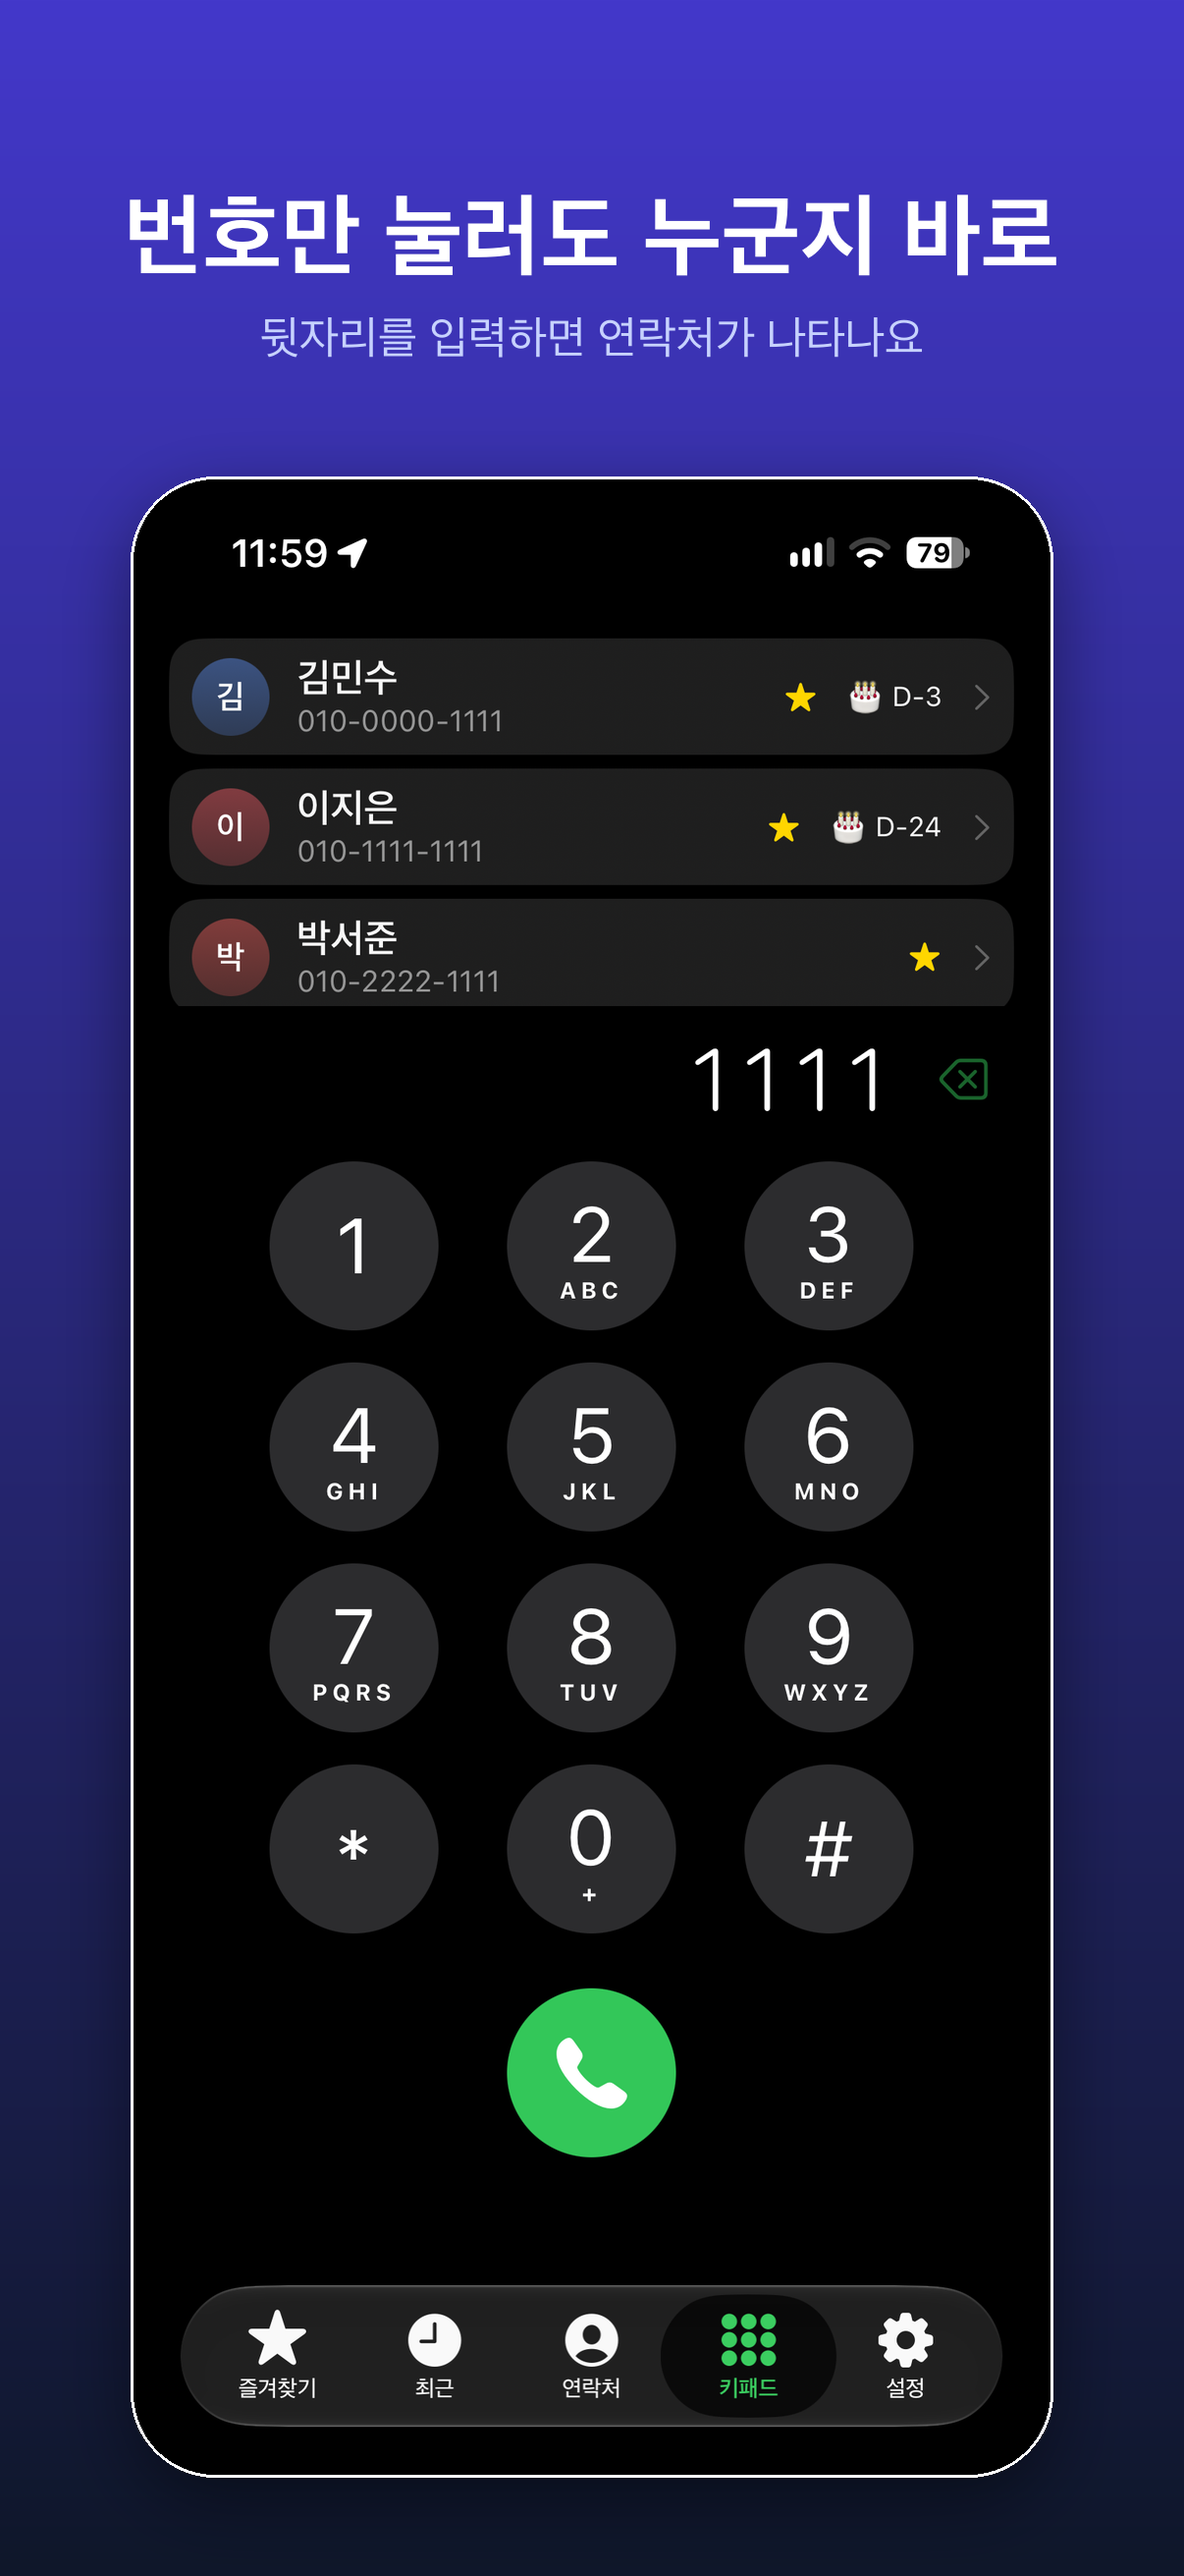
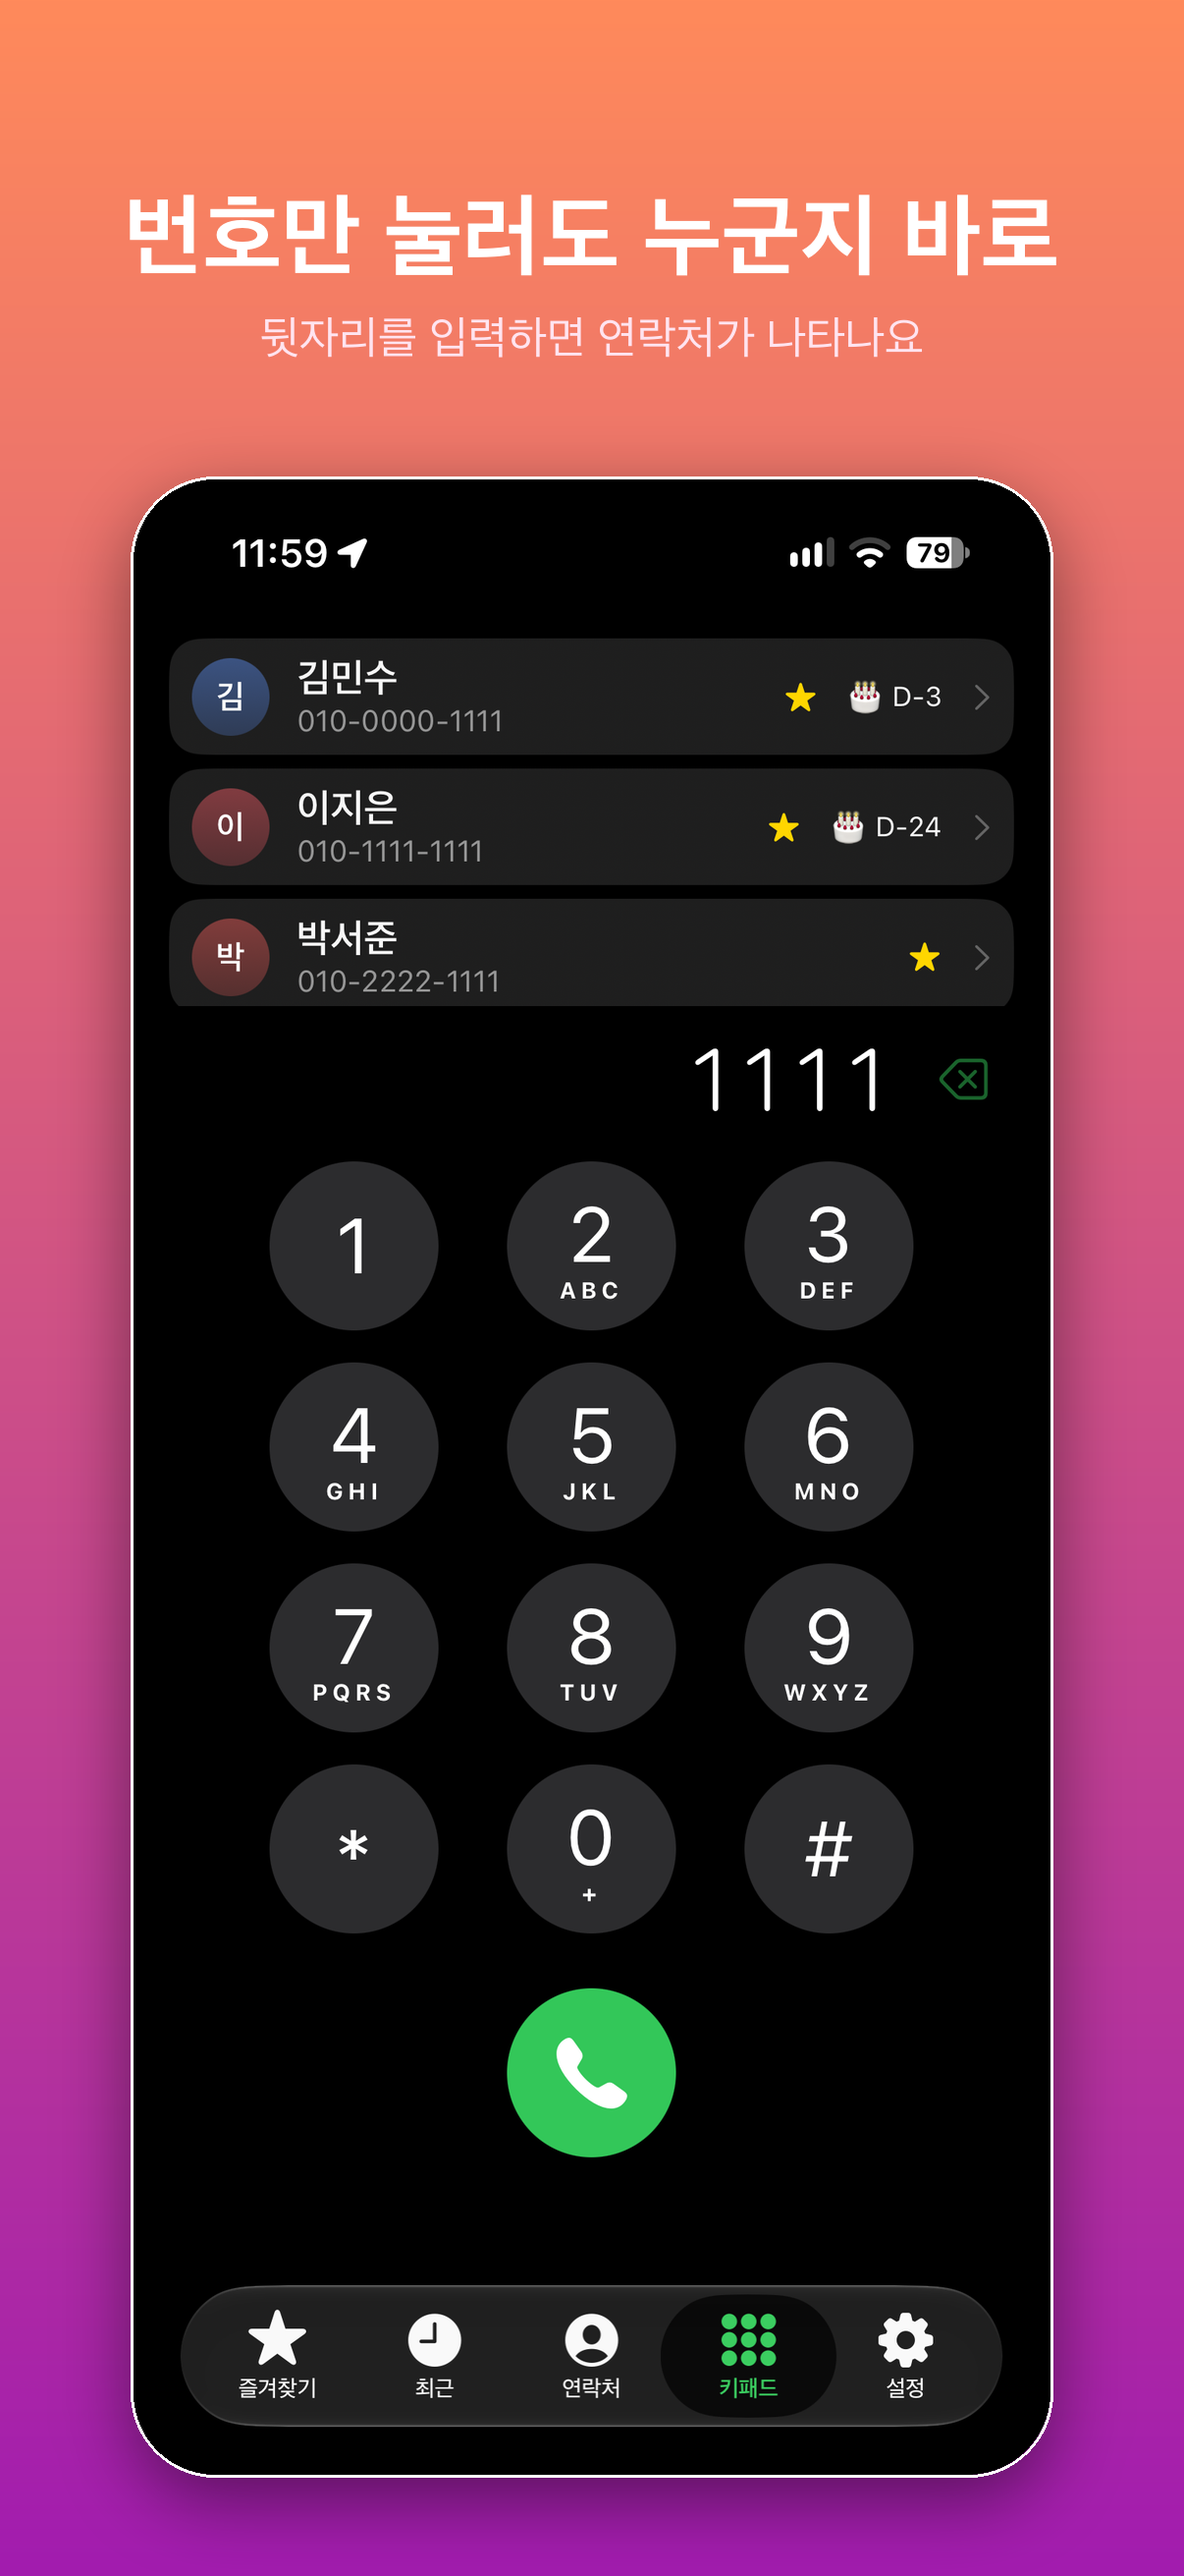
카드 전화 버튼 즉시 발신, 스크린샷 아이콘색 배경, 아이콘 시안 추가, 1.1.1 제출

diff --git a/RemindCall/Views/CallCardView.swift b/RemindCall/Views/CallCardView.swift
@@ -199,13 +199,17 @@ struct CallCardView: View {
             }
             .disabled(contact.phones.isEmpty)
             ActionButton(symbol: "phone.fill", title: "전화", tint: .green, size: 76) {
-                if contact.phones.count > 1 {
-                    showNumberPicker = true
-                } else if let phone = contact.phones.first {
-                    call(phone)
-                }
+                // 탭하면 첫 번호로 바로 건다. 다른 번호는 길게 눌러 고른다.
+                if let phone = contact.phones.first { call(phone) }
             }
             .disabled(contact.phones.isEmpty)
+            .contextMenu {
+                if contact.phones.count > 1 {
+                    ForEach(contact.phones, id: \.self) { phone in
+                        Button("\(phone.label) \(phone.number)") { call(phone) }
+                    }
+                }
+            }
             ActionButton(symbol: "square.and.pencil", title: "메모", tint: .white.opacity(0.18)) {
                 showNoteEditor = true
             }

diff --git a/app-store/make_screenshots.py b/app-store/make_screenshots.py
@@ -40,8 +40,15 @@ SL={
       (8118,"联系记录集中查看","从RemindCall拨出的电话和备忘录"),
       (8121,"只开启需要的提醒","通话后备忘 · 生日 · 陌生号码标签")],
 }
+STYLES={"indigo":((67,56,202),(15,23,42),(255,255,255),(199,210,254),(255,255,255)),
+        "black":((28,28,30),(0,0,0),(255,255,255),(174,174,178),(72,72,74)),
+        "light":((242,242,247),(229,229,234),(28,28,30),(99,99,102),(209,209,214)),
+        "warm":((255,138,91),(162,28,175),(255,255,255),(255,228,240),(255,255,255)),
+        "green":((22,101,52),(5,46,22),(255,255,255),(187,247,208),(134,239,172))}
+STYLE=os.environ.get("STYLE","warm"); TOP,BOT,TC,SC,OC=STYLES[STYLE]
+ONLY=os.environ.get("ONLY")
 def gradient():
-    top,bottom=(67,56,202),(15,23,42)
+    top,bottom=TOP,BOT
     img=Image.new("RGB",(W,H)); d=ImageDraw.Draw(img)
     for y in range(H):
         t=y/(H-1); d.line([(0,y),(W,y)],fill=tuple(int(top[i]+(bottom[i]-top[i])*t) for i in range(3)))
@@ -53,21 +60,24 @@ def rmask(size,r):
 def center(d,y,text,f,fill):
     w=d.textlength(text,font=f); d.text(((W-w)/2,y),text,font=f,fill=fill)
 for lang,slides in SL.items():
-    od=os.path.join(OUT,lang); os.makedirs(od,exist_ok=True)
-    for f in os.listdir(od): os.remove(os.path.join(od,f))
+    if ONLY and lang!=ONLY.split(":")[0]: continue
+    od=os.environ.get("OUTDIR") or os.path.join(OUT,lang); os.makedirs(od,exist_ok=True)
+    if not ONLY:
+        for f in os.listdir(od): os.remove(os.path.join(od,f))
     for i,(img,title,sub) in enumerate(slides,1):
+        if ONLY and i!=int(ONLY.split(":")[1]): continue
         c=gradient()
         shot=Image.open(D%img).convert("RGB"); sw=935; sh=int(shot.height*sw/shot.width)
         shot=shot.resize((sw,sh),Image.LANCZOS); x,y=(W-sw)//2,487
         sd=Image.new("RGBA",(W,H),(0,0,0,0)); ImageDraw.Draw(sd).rounded_rectangle((x,y+24,x+sw,y+sh+24),84,fill=(0,0,0,120))
         c=Image.alpha_composite(c.convert("RGBA"),sd.filter(ImageFilter.GaussianBlur(36))).convert("RGB")
         c.paste(shot,(x,y),rmask((sw,sh),84))
-        d=ImageDraw.Draw(c); d.rounded_rectangle((x-2,y-2,x+sw+2,y+sh+2),86,outline=(255,255,255),width=3)
+        d=ImageDraw.Draw(c); d.rounded_rectangle((x-2,y-2,x+sw+2,y+sh+2),86,outline=OC,width=3)
         ts=92
         while d.textlength(title,font=font(lang,ts,True))>W-110: ts-=2
-        center(d,190,title,font(lang,ts,True),(255,255,255))
+        center(d,190,title,font(lang,ts,True),TC)
         ss=46
         while d.textlength(sub,font=font(lang,ss,False))>W-140: ss-=2
-        center(d,318,sub,font(lang,ss,False),(199,210,254))
-        c.save(os.path.join(od,f"{i:02d}.png"))
+        center(d,318,sub,font(lang,ss,False),SC)
+        c.save(os.path.join(od,f"{STYLE}-{i:02d}.png" if ONLY else f"{i:02d}.png"))
 print("ok")

diff --git a/CLAUDE.md b/CLAUDE.md
@@ -28,5 +28,5 @@
 - 설정 탭(켜기/끄기): 통화 후 메모 알림, 생일 알림(최대 50개 예약), 모르는 번호 이름표. 기본값은 모두 꺼짐.
 - 제출 값(App Store Connect, 앱 ID 6839308482): 카테고리 생산성/유틸리티, 연령 4+, 무료, 저작권 2026 BS Jeon, 지원 URL=GitHub 저장소, 처리방침 `outinletter.github.io/privacy-policy/remindcall.html`, 프라이버시 "수집 안 함". 문구·심사 노트는 `app-store/METADATA.md`, 광고용 스크린샷은 `app-store/screenshots/`(1206×2622, 개인정보 일반화본).
 - 업로드: `xcodebuild archive` 후 `-exportArchive`(method app-store-connect, destination upload).
-- 현재: 1.0.1 (2) 승인됨(배포 준비됨). 1.1 (3) 2026-11-27 심사 제출(4개 언어 메타데이터·스크린샷). 스토어 스크린샷은 `-demoMode YES -appLanguage <code>` 실행 인자로 시연 데이터를 띄워 캡처. 다음: 심사 결과 대응, 생성 스크립트의 버전을 1.1 (3)으로 맞출 것.
+- 현재: 1.0.1 (2) 승인됨(배포 준비됨). 1.1 (3) 2026-11-27 심사 제출(4개 언어 메타데이터·스크린샷). 스토어 스크린샷은 `-demoMode YES -appLanguage <code>` 실행 인자로 시연 데이터를 띄워 캡처. 1.1 (3) 승인(배포 준비됨). 1.1.1 (4) 2026-11-28 심사 제출(카드 전화 버튼 즉시 발신, 아이콘색 배경 스크린샷). 다음: 심사 결과 대응, 생성 스크립트의 버전을 1.1.1 (4)로 맞출 것.
 - 시뮬레이터는 쓰지 않는다. 실기기 설치는 "설치" 요청 때만 한다.
